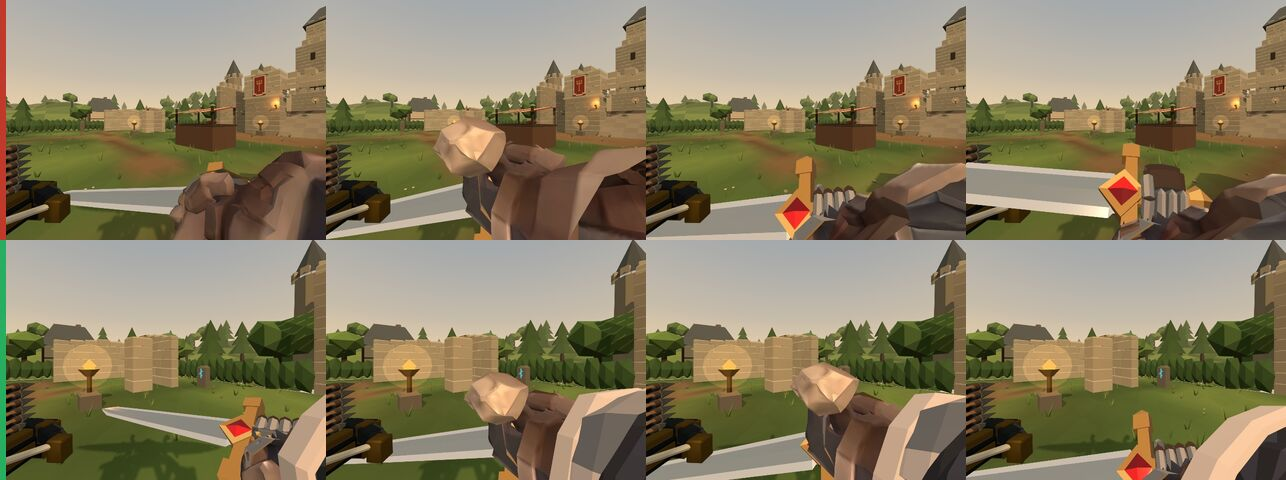
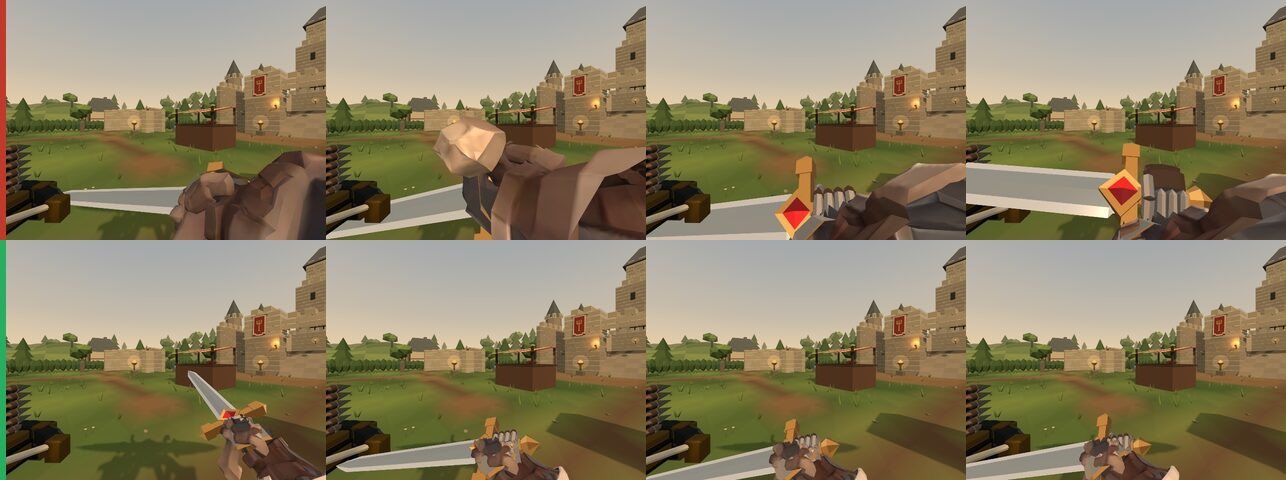
The Fight-and-Flight sight draws first person's own sword arm, not the rider's third-person one
From the sight the game hid the rider's helmet and body but left his third-person gauntlets, and hid first person's
weapon, so every mounted strike and Guard was drawn with the rider's own forearm and gauntlet, far thicker than the
first-person arms and right before the lens. The sight now shows first person's sword arm, in its own pass and framed
as on foot (its cockpit rest low at the right, its magic hand away), and hides the rider's right gauntlet and sword from
his own eyes; his left hand stays on the repeater's grip. Everyone else, and every outside view, sees the rider's real
arm. This replaces pushing the third-person arm away from the eye, which only made the same blob a little smaller.

Changed region(s): [[0.0, 0.5, 1.0, 1.0]]

diff --git a/docs/spellblade-joints/evidence/README.md b/docs/spellblade-joints/evidence/README.md
@@ -13,4 +13,5 @@ Rendered from the third-person sources (Blender, Eevee, a neutral sky) and captu
 | `in-game-elbows.jpg` | In game: a held Guard, two points of a strike and a cast. |
 | `guardcut1-before-after.jpg` | `GuardCut_1`, frames 14, 15.5, 17 and 19, front and side: top `main` (the guard up through the visor), bottom this branch (the arm 16.7° further forward; the blade 3 cm off the helmet throughout). |
 | `fp-magic-hand-before-after.jpg` | First person, the magic hand at rest (palm up, its rune shown): left `main`, right this branch, its finger lames wrapped round to frame the leather. |
-| `mounted-strike-sight.jpg` | The Fight-and-Flight sight through a mounted strike's follow-through (430 to 740 ms): top `main`, bottom this branch, the arm held further from the eye. |
+| `mounted-strike-sight.jpg` | The Fight-and-Flight sight through a mounted strike (430 to 740 ms): top `main`, the rider's own third-person forearm and gauntlet filling the view; bottom this branch, first person's own sword arm, drawn in its own pass as on foot. |
+| `mounted-sight-rest-guard-outside.jpg` | This branch: the sight at rest (the sword low at the right), the mounted Guard (twice), and the same rider from outside mid-strike, his real arm and sword drawn for everyone else. |
